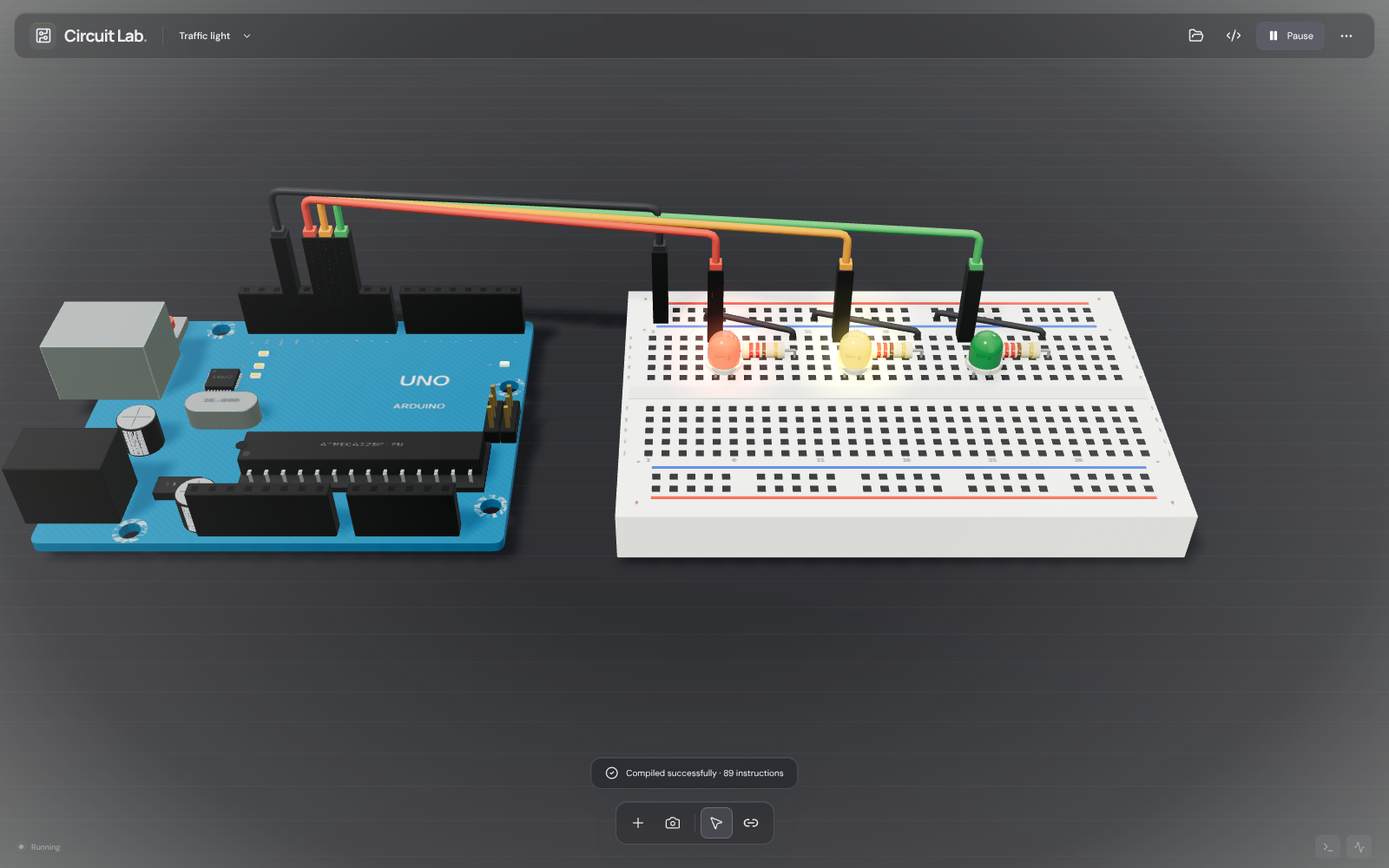
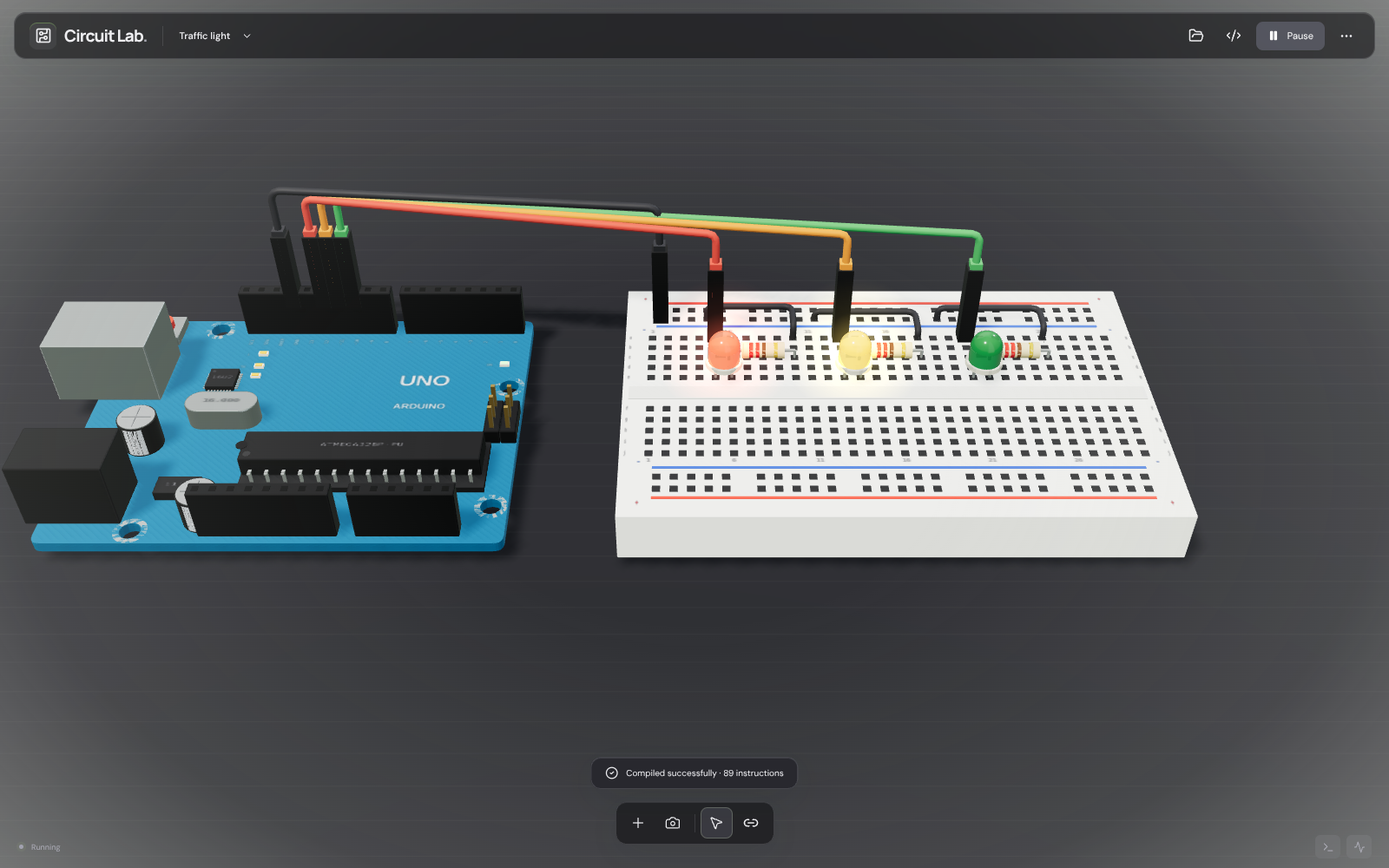
Circuit Lab: right-angle solid-core jumpers, rewritten README/HANDOFF/in-app reference, sourced dimension table, portable browser workflows
Claude-Session: https://claude.ai/code/session_01C82LR6fRpapbuBsgGKdbUN

Changed region(s): [[0.75, 0.0, 1.0, 0.093], [0.0, 0.0, 0.25, 0.093], [0.5, 0.341, 0.75, 0.403]]

diff --git a/circuit-lab/src/App.jsx b/circuit-lab/src/App.jsx
@@ -74,7 +74,7 @@ function App(){const [project,setProject]=useState(load),[selected,setSelected]=
  {connect&&<div className="modal-backdrop" onPointerDown={()=>setConnect(false)}><div className="modal connect-modal glass" onPointerDown={e=>e.stopPropagation()}><div className="modal-heading"><span className="modal-icon"><Link2 size={22}/></span><IconButton icon={X} label="Close connection dialog" onClick={()=>setConnect(false)}/></div><h2>{editingWire?'Reconnect this wire.':'Make a connection.'}</h2><p>Choose two physical terminals. Their electrical nets will be joined.</p>{['From terminal','To terminal'].map((label,i)=><label className="connect-field" key={label}>{label}<select aria-label={label} value={pair[i]} onChange={e=>setPair(pair.map((v,j)=>j===i?e.target.value:v))}><option value="">Choose a terminal…</option>{project.components.map(c=><optgroup key={c.id} label={c.name+' · '+c.id.slice(0,6)}>{terminals(c).map(t=><option key={t.id} value={ref(c,t.id)}>{t.id}</option>)}</optgroup>)}</select></label>)}<button className="primary-button" onClick={()=>connectNodes(...pair)}><Link2 size={15}/>Connect terminals</button></div></div>}
  {gallery&&<ProjectGallery projects={PROJECTS} onLoad={loadProject} onClose={()=>setGallery(false)}/>}{tools&&<ToolsModal onClose={()=>setTools(false)}/>}
  {newFile&&<div className="modal-backdrop"><div className="modal connect-modal glass"><div className="modal-heading"><h2>A new source file.</h2><IconButton icon={X} label="Close" onClick={()=>setNewFile(false)}/></div><p>Files share one compilation unit in the Lab compiler.</p><input className="filename-input" value={fileName} onChange={e=>setFileName(e.target.value)} aria-label="Source filename"/><button className="primary-button" onClick={()=>{if(!/^[a-zA-Z0-9_-]+\.(ino|cpp|h)$/.test(fileName)||Object.hasOwn(project.files,fileName)){notify('Choose a unique .ino, .cpp or .h filename.');return;}change(p=>{p.files[fileName]='// '+fileName+'\n';p.activeFile=fileName;return p;});setNewFile(false);}}>Create file</button></div></div>}
- {docs&&<div className="modal-backdrop" onPointerDown={()=>setDocs(false)}><div className="modal docs-modal glass" onPointerDown={e=>e.stopPropagation()}><div className="modal-heading"><span className="modal-icon"><BookOpen size={22}/></span><IconButton icon={X} label="Close reference" onClick={()=>setDocs(false)}/></div><div className="eyebrow">THE CIRCUIT LAB FIELD GUIDE</div><h2>Reference</h2><p>Build a circuit, write a little code, and inspect what actually flows. Every wire is part of an electrical graph. Every light is driven by calculated current.</p><div className="guide-grid"><div><span>01</span><h3>Build</h3><p>Drag parts from the library. Use <kbd>W</kbd> to connect pins, or select terminals by name with the + connector tool.</p></div><div><span>02</span><h3>Program</h3><p>Open Code, edit the sketch, then Compile or Upload & run. The first circuit is already wired for a blink.</p></div><div><span>03</span><h3>Explore</h3><p>Press a button, move a wiper, or disconnect a wire. Check the live voltages, serial output and diagnostics.</p></div></div><details open><summary>What runs here</summary><p>The Lab compiler tokenizes and parses a documented Arduino-style C++ subset into bytecode. It supports numeric and string variables, functions, if / else, while, for, return, break, arithmetic and boolean expressions. This is a dedicated virtual hardware backend, not an Xtensa emulator or a complete ESP32 C++ toolchain.</p><div className="api-grid"><code>pinMode · digitalWrite · digitalRead</code><code>analogRead · analogReadMilliVolts</code><code>ledcAttach · ledcWrite · analogWrite</code><code>Serial.begin · print · println · read</code><code>Wire.begin · beginTransmission · write</code><code>OLED / LCD · begin · print · display</code><code>attachInterrupt · timerEvery · delay</code><code>millis · micros · map · constrain</code><code>WiFi.softAP · begin · status · localIP</code><code>UDP.begin · beginPacket · print · endPacket</code><code>UDP.parsePacket · readString · remoteIP</code></div><p>Pointers, arrays, structs, classes, external Arduino libraries, FreeRTOS, full Wi-Fi stacks, Bluetooth, native ESP32 binaries and real USB uploads are unsupported. Integers use numeric VM values; this is not C++ integer-overflow or integer-division emulation. Unsupported syntax and APIs produce diagnostics. The OLED / LCD text APIs and timerEvery() are Lab extensions.</p></details><details><summary>Electrical model & timing</summary><p>A union-find connection graph feeds nodal conductance analysis. Resistors use Ohm’s law; LEDs use a piecewise linear forward model; potentiometers are two variable resistances; button contacts have deterministic bounce. Breadboard A–E and F–J strips are electrically independent.</p><p>A worker advances a deterministic 1 ms simulation clock with bounded catch-up. Rendering and editor updates are independent. PWM uses average voltage; the trace shows solved voltage, not sub-millisecond pulses. ADC is ideal, 9–12 bit, with configured full scale. Microphone is a configurable synthetic sine source, not live microphone capture. I²C ACK depends on wiring, address and supply. OLED and LCD use text frames, not SSD1306 or HD44780 register emulation. The generic LCD backpack is a 3.3 V model; real 5 V modules may need level shifting. LDR resistance follows a power law; NTC follows the Beta equation. Seven-segment brightness comes from eight separate diode currents. Batteries use configurable internal resistance, without discharge chemistry. UART is a logical serial queue. SPI is a limited logical pin model and has no slave devices. Timers and interrupts execute at solver resolution.</p><p>Supplies are resistive sources; excess current is diagnosed, not a full regulator foldback model. This tool does not model RF, EMI, parasitics, thermal damage, analog capacitors, transistor internals, USB protocol or cycle-exact peripheral timing. Floating inputs default to zero through solver leakage. Each ESP32 runs its own bytecode VM, GPIO, timers and source files on the shared deterministic clock. The virtual Wi-Fi network supports AP/station association, SSID/passphrase/channel matching and UDP datagrams. It does not implement RF, 802.11 frames, real cryptography, TCP, DNS, internet access or ESP-IDF binaries.</p></details><details><summary>Hardware provenance</summary><p><b>Espressif ESP32-DevKitC V4 / ESP32-DevKitC-32E</b>, with ESP32-WROOM-32E-N4 (4 MB flash, no PSRAM). Verified carrier outline: 48.26 × 27.94 mm. Two 19-pin headers, 2.54 mm pitch, 25.40 mm column separation. Module: 18 × 25.5 × 3.1 mm, official ±0.15 mm tolerance.</p><p>PCB thickness (1.6 mm), corner radius, metal pin profile, USB details, switch dimensions, small component placement and antenna artwork are visual approximations. The module contains a shielded crystal. The board uses a CP2102N USB-UART bridge and AMS1117 regulator. The red onboard LED is a power indicator, not GPIO2. GPIO34–39 are input-only with no pulls; GPIO6–11 are reserved for flash. GPIO0, 2, 5, 12 and 15 are strapping pins. ADC2 radio contention is outside the no-radio model.</p><div className="reference-links">{BOARD.sources.map(s=><a key={s.url} href={s.url} target="_blank" rel="noreferrer">{s.title}<ExternalLink size={13}/></a>)}</div></details><details><summary>Controls, persistence & recovery</summary><p>Drag a component to move it. Drag empty space to orbit, right-drag to pan, and scroll to zoom. Shift-click selects multiple objects. <kbd>R</kbd> opens rotation handles; the inspector provides exact X/Y/Z values and a 180° underside flip. Set a positive Y position to lift a part. <kbd>F</kbd> focuses the camera. <kbd>⌘D</kbd> duplicates, <kbd>Delete</kbd> removes, <kbd>⌘Z</kbd> undoes, and <kbd>Space</kbd> runs or pauses.</p><p>Projects autosave in this browser. Manual save, versioned JSON export and validated import are in the project menu. Stored state includes component transforms, parameters, wires, source files, layout and camera; a running VM is restarted after reload. Import errors preserve the current project. CodeMirror offers search and replace with Ctrl / Cmd + F. Use Export to move projects between devices. Up to 200 parts and 2,000 wires can be stored; the electrical solver is bounded to 700 active nets. Unused breadboard strips do not consume solver capacity. Automatic wire paths clear component bounding boxes and separate crossing heights; custom routes remain unrestricted. Crossing wires do not create a junction.</p></details><div className="guide-foot"><CircuitBoard size={17}/><span>Made for curiosity. Built on real connections.</span></div></div></div>}
+ {docs&&<div className="modal-backdrop" onPointerDown={()=>setDocs(false)}><div className="modal docs-modal glass" onPointerDown={e=>e.stopPropagation()}><div className="modal-heading"><span className="modal-icon"><BookOpen size={22}/></span><IconButton icon={X} label="Close reference" onClick={()=>setDocs(false)}/></div><div className="eyebrow">THE CIRCUIT LAB FIELD GUIDE</div><h2>Reference</h2><p>Build a circuit, write a little code, and inspect what actually flows. Every wire is part of an electrical graph. Every light is driven by calculated current.</p><div className="guide-grid"><div><span>01</span><h3>Build</h3><p>Drag parts from the library. Use <kbd>W</kbd> to connect pins, or select terminals by name with the + connector tool.</p></div><div><span>02</span><h3>Program</h3><p>Open Code, edit the sketch, then Compile or Upload & run. The first circuit is already wired for a blink.</p></div><div><span>03</span><h3>Explore</h3><p>Press a button, move a wiper, or disconnect a wire. Check the live voltages, serial output and diagnostics.</p></div></div><details open><summary>What runs here</summary><p>A real tokenizer, preprocessor, parser and bytecode compiler turn an Arduino-style C++ sketch into code for a bounded VM, one per board. Integer types keep their C widths (16-bit <code>int</code> on AVR, 32-bit on ESP32/RP2040/STM32), overflow, casts and integer division. Arrays (1D/2D), <code>switch</code>, <code>do/while</code>, <code>#define</code>, <code>static</code>, <code>volatile</code>, <code>String</code> and <code>Serial.printf</code> are supported.</p><div className="api-grid"><code>pinMode · digitalWrite · digitalRead</code><code>analogRead · analogWrite · ledcWrite · dacWrite</code><code>tone · pulseIn · shiftOut · shiftIn</code><code>attachInterrupt · millis · micros · delay</code><code>Serial · SoftwareSerial · Wire · SPI · EEPROM</code><code>Servo · LiquidCrystal_I2C · Adafruit_SSD1306</code><code>DHT · Adafruit_NeoPixel · Adafruit_GFX</code><code>WiFi · WiFiUDP (ESP32 / ESP8266)</code></div><p>Each board only offers what the real one has: <code>ledcWrite</code> on ESP32, <code>WiFi</code> on Wi-Fi boards, ADC on real ADC pins, interrupts on interrupt-capable pins. Pointers, user-defined classes/structs, dynamic memory, FreeRTOS, BLE, TCP/HTTP and libraries not listed fail with a compile diagnostic. This is not an instruction-set emulator: timing runs on a 1 ms clock (<code>pulseIn</code> uses exact edge times).</p></details><details><summary>Electrical model & timing</summary><p>Modified nodal analysis solved every simulated millisecond, with 1/5/20 substeps (Simulation precision) while anything is switching or storing energy. Diodes, LEDs and Zeners use exponential junction models with Newton–Raphson and voltage limiting. BJTs use an Ebers–Moll-style model and MOSFETs a square law with a body diode. The op-amp saturates at its rails and regulators drop out. Capacitors and inductors use backward-Euler companions, so RC/RL time constants, motor back-EMF and relay or flyback kicks really happen.</p><p>PWM truly switches when its period spans at least four substeps and is averaged otherwise. LED brightness is the time average, the way the eye sees it. The 555, 74HC595, relay contacts, HC-SR04 and DHT22 are behavioural models with analog pins. I²C and SPI transactions only succeed through actually connected, powered, grounded nets with the right address. UART between boards is delivered byte by byte when TX and RX are electrically linked and meet the logic threshold; mismatched baud rates garble data. Wi-Fi/UDP is a virtual network, not RF.</p><p>Not modelled: temperature, parasitics, EMI, battery chemistry beyond internal resistance and charge, ADC noise/nonlinearity, and component destruction (overloads are diagnosed, parts never burn). It is an educational simulator, not SPICE sign-off or a safety assessment.</p></details><details><summary>Hardware provenance</summary><p>Board outlines and header positions follow official drawings: Arduino Uno R3 (68.58 × 53.34 mm shield grid), Mega 2560, Nano (0.6" rows), Raspberry Pi Pico (21 × 51 mm, 0.7" rows), ESP32-DevKitC V4 (27.94 × 48.26 mm, 25.40 mm row spacing), plus vendor-consensus outlines for the NodeMCU Amica and the Blue Pill. Part bodies use datasheet packages (T-1¾ LED, DO-35/41, TO-92, TO-220, DIP, SRD relay, WS2812B 5050, DHT22). Silkscreen, small SMD parts and bench instruments are visual approximations. The full table with sources is in docs/HARDWARE_REFERENCE.md.</p><div className="reference-links">{BOARD.sources.map(s=><a key={s.url} href={s.url} target="_blank" rel="noreferrer">{s.title}<ExternalLink size={13}/></a>)}</div></details><details><summary>Controls, persistence & recovery</summary><p>Drag a component to move it. Drag empty space to orbit, right-drag to pan, and scroll to zoom. Shift-click selects multiple objects. <kbd>R</kbd> opens rotation handles; the inspector provides exact X/Y/Z values and a 180° underside flip. Set a positive Y position to lift a part. <kbd>F</kbd> focuses the camera. <kbd>⌘D</kbd> duplicates, <kbd>Delete</kbd> removes, <kbd>⌘Z</kbd> undoes, and <kbd>Space</kbd> runs or pauses.</p><p>Projects autosave in this browser. Open or drop a <code>.circuitlab.json</code> project to load it, or an <code>.ino</code>/<code>.cpp</code>/<code>.h</code> file to add it to the sketch. Manual save, JSON/BOM CSV/SPICE netlist export and validated import are in the project menu. Parts dropped onto a breadboard seat into its holes and connect through its strips. Stored state includes component transforms, parameters, wires, source files, layout and camera; a running VM is restarted after reload. Import errors preserve the current project. CodeMirror offers search and replace with Ctrl / Cmd + F. Use Export to move projects between devices. Up to 200 parts and 2,000 wires can be stored; the electrical solver is bounded to 700 active nets. Unused breadboard strips do not consume solver capacity. Automatic wire paths clear component bounding boxes and separate crossing heights; custom routes remain unrestricted. Crossing wires do not create a junction.</p></details><div className="guide-foot"><CircuitBoard size={17}/><span>Made for curiosity. Built on real connections.</span></div></div></div>}
  </div>;
 }
 export default App;

diff --git a/circuit-lab/src/scene.js b/circuit-lab/src/scene.js
@@ -95,7 +95,7 @@ export class LabScene {
  updateWires(){
   if(!this.project)return;const boxes=new Map();for(const [id,g]of this.objects){const b=g.userData.localBounds.clone().applyMatrix4(g.matrixWorld);boxes.set(id,{min:b.min.toArray(),max:b.max.toArray()});}const previous=[],wanted=new Set(),curves=new Map();
   for(const w of this.project.wires){if(w.kind==='contact')continue;const a=this.endpoint(w.a),b=this.endpoint(w.b);if(!a||!b)continue;wanted.add(w.id);let curve,signature;const na=this.terminalNormal(w.a),nb=this.terminalNormal(w.b),oa=this.housingOffset(w.a),ob=this.housingOffset(w.b);
-   const flat=this.isHole(w.a)&&this.isHole(w.b);if(flat&&!(w.route==='manual'||w.points?.length)){const up=1.4,pa=a.clone().add(na.clone().multiplyScalar(up)),pb=b.clone().add(nb.clone().multiplyScalar(up));curve=this.roundedRoute([a.toArray(),pa.toArray(),pb.toArray(),b.toArray()].map((v,i)=>i===0||i===3?[v[0],v[1]-1.2,v[2]]:v));signature=JSON.stringify(['flat',a.toArray(),b.toArray(),w.color]);}
+   const flat=this.isHole(w.a)&&this.isHole(w.b);if(flat&&!(w.route==='manual'||w.points?.length)){/* Solid-core jumpers lie flat and are bent at right angles like a hand-built board; a per-wire lift keeps crossing jumpers from sharing a surface */let hash=0;for(const ch of w.id)hash=(hash*31+ch.charCodeAt(0))>>>0;const up=1.2+(hash%5)*.35,pa=a.clone().add(na.clone().multiplyScalar(up)),pb=b.clone().add(nb.clone().multiplyScalar(up)),pts=[a.toArray(),pa.toArray()];if(Math.abs(pa.x-pb.x)>.6&&Math.abs(pa.z-pb.z)>.6)pts.push([pa.x,(pa.y+pb.y)/2,pb.z]);pts.push(pb.toArray(),b.toArray());curve=this.roundedRoute(pts.map((v,i)=>i===0||i===pts.length-1?[v[0],v[1]-1.2,v[2]]:v));signature=JSON.stringify(['flat',a.toArray(),b.toArray(),w.color]);}
    else if(w.route==='manual'||w.points?.length||w.bendX||w.bendZ){curve=this.manualCurve(w);signature=JSON.stringify([a.toArray(),b.toArray(),w,na.toArray(),nb.toArray()]);}
    else{const route=autoRoute({a:a.toArray(),b:b.toArray(),normalA:na.toArray(),normalB:nb.toArray(),escapeA:oa+8,escapeB:ob+8,ownerA:boxes.get(w.a.split(':')[0]),ownerB:boxes.get(w.b.split(':')[0]),obstacles:[...boxes.values()],previous});previous.push(route);curve=this.roundedRoute(route.points);signature=JSON.stringify([route.points,w.color]);}curves.set(w.id,curve);
    let mesh=this.wires.get(w.id);if(mesh?.userData.signature!==signature){if(mesh){this.scene.remove(mesh);this.disposeGroup(mesh);mesh.material.dispose();}mesh=new THREE.Mesh(new THREE.TubeGeometry(curve,Math.max(40,Math.min(160,Math.ceil(curve.getLength()*1.2))),flat?.52:.62,8,false),new THREE.MeshStandardMaterial({color:w.color||'#b98548',roughness:.42,metalness:0}));mesh.userData.wire=w.id;mesh.userData.signature=signature;mesh.castShadow=true;

diff --git a/circuit-lab/src/styles.css b/circuit-lab/src/styles.css
@@ -65,3 +65,5 @@
 .app .modal-icon{background:var(--control);color:var(--ink);border:1px solid var(--hairline)}
 /* Keep the glass see-through but stop bright objects behind it (white breadboards, lit LEDs) from washing out text. */
 .app.theme-dark .glass,.app.theme-dark .topbar{backdrop-filter:blur(22px) saturate(140%) brightness(.6);-webkit-backdrop-filter:blur(22px) saturate(140%) brightness(.6)}
+/* The reference is long-form reading: the scene must not compete with its text, so it keeps a denser tint than other glass. */
+.app.theme-dark .docs-modal{background:rgba(24,24,28,.88)}

diff --git a/circuit-lab/README.md b/circuit-lab/README.md
@@ -1,105 +1,79 @@
 # Circuit Lab
 
-A browser-based 3D electronics workspace for Espressif **ESP32-DevKitC V4 / ESP32-WROOM-32E-N4**. All fifteen component types are independent 3D assemblies. Drag and rotate parts, edit all three position/rotation axes, create arbitrary terminal connections, route wires with up to eight movable bends, and inspect electrical results. Incorrect wiring is allowed and diagnosed.
+A browser-based 3D electronics bench. Place real-proportioned boards and parts, seat them on breadboards, wire them, write Arduino-style firmware, and watch a transient circuit solver drive every LED, motor, display and instrument. Everything (compiler, VMs, solver, network, renderer) runs locally in the browser; there is no server, account or external simulator.
 
-## Run locally
+## Run
 
 ```sh
 npm ci
-npm run dev
+npm run dev                                         # http://127.0.0.1:5173
+npm test                                            # 114 engine / compiler / physics / project tests
+npm run build                                       # dist/
+npx vite build --config vite.standalone.config.js   # standalone/index.html, single file, works offline
 ```
 
-Open the URL printed by Vite. No compilation service, secret, account, or external simulator is required. The source compiler, independent firmware VMs, electrical solver and project storage run in the browser. Google Fonts is optional; local system fonts are the fallback.
+`Circuit-Lab.html` in this folder is the latest single-file build. Open it directly in Chrome, Edge, Firefox or Safari.
 
-```sh
-npm test        # electrical, compiler, VM and persistence tests
-npm run build  # production bundle in dist/
-```
+## What is in the box
 
-Browser workflow verification uses the installed Chromium through Playwright:
+**Boards (7):** ESP32 DevKitC V4, Arduino Uno R3, Arduino Nano, Arduino Mega 2560 Rev3, Raspberry Pi Pico, NodeMCU ESP8266 (Amica V2), STM32 Blue Pill. Each board has its own profile (`src/boards.js`): logic level, VIL/VIH, pin output resistance, GPIO capabilities (ADC, PWM, interrupts, I2C/SPI/UART pins, input-only and strapping pins), integer width (16-bit `int` on AVR), onboard LEDs, and which APIs exist (for example, `ledcWrite` is ESP32-only and `WiFi` needs a Wi-Fi board). Calling an API the selected board doesn't have is a compile error, the same as it would be in the real toolchain.
 
-```sh
-node tests/browser-workflows.mjs
-```
+**Parts (52):** resistor, ceramic/electrolytic capacitor, inductor, diodes (1N4148, 1N4007, 1N5819 Schottky, 1N4733A Zener, …), NPN/PNP (2N2222, BC547, 2N3906, TIP120), N-MOSFET (2N7000, IRF520, IRLZ44N), 78xx/LM1117 regulators, LM358 op-amp, NE555, 74HC595, relay, DC motor, SG90 servo, active/passive buzzer, incandescent lamp, WS2812B stick, 10-segment bar, 7-segment, SSD1306 OLED, 1602 I2C LCD, push button, slide switch, tilt switch, potentiometer, KY-023 joystick, KY-040 encoder, 4×4 membrane keypad, microphone, LDR, NTC, DHT22, HC-SR04, HC-SR501 PIR, capacitive soil sensor, MQ-2, MPU-6050, DS3231, 9 V battery, AA pack, 18650 cell, bench PSU (CV/CC), function generator, multimeter, 2-channel oscilloscope, 8-channel logic analyzer, and mini/half/full breadboards.
 
-The script expects a running Vite server at `http://127.0.0.1:5173`, Chromium at `/usr/bin/chromium`, and writes actual screenshots to `/workspace/artifacts/circuit-lab`. `tests/inspect-browser.mjs` is a shorter visual smoke check. Browser QA was performed with WebGL2 software rendering. Native hardware WebGPU is selected when available but is not certified by that run.
+**Projects (39):** blink, traffic light, chaser, dice/7-segment, shift-register bar graph, servo knob, ultrasonic LCD ruler, weather station, melody, keypad lock, joystick RGB, night light, thermometer, Mega chaser, Pico breathing and NeoPixel rainbow, Blue Pill interrupt, ESP8266↔ESP32 Wi-Fi remote, wired UART link between two boards, IMU tilt, RTC OLED clock, PIR alarm, plant watering (relay + pump), MOSFET motor PWM with flyback diode, 555 flasher, RC and RL transients on the scope, op-amp amplifier, 7805 regulator, Zener reference, transistor lamp switch, multimeter/ohmmeter and more. `tests/projects.test.js` runs every one of them and checks the physical result (LED current, timing, scope ratio, LCD text, etc.).
+
+**Tools:** library with live 3D thumbnails and search; schema-driven inspector (part parameters, live readouts, board information and datasheet links); oscilloscope and logic-analyzer drawer; engineering calculators (LED resistor, Ohm's law, divider, RC/filter, 555 astable, color code); BOM CSV and SPICE netlist export; JSON project import/export (drag a `.circuitlab.json`/`.json` file in or use the open button); camera snapshot; undo/redo; autosave.
+
+## Simulation model (and its honest limits)
+
+`src/engine.js` builds a Modified Nodal Analysis matrix from the wiring graph and solves it with dense LU every 1 ms of simulated time, in 1/5/20 substeps (Simulation precision setting) whenever something is switching or storing energy.
+
+- **Nonlinear devices** use Newton–Raphson with junction-voltage limiting: diode/LED Shockley models (Zener breakdown with knee resistance), Ebers–Moll-style BJTs (cut-off/active/saturation reported), square-law MOSFETs, piecewise op-amp with rail limits, regulators with dropout.
+- **Energy storage** uses backward-Euler companion models, so RC/RL time constants, motor back-EMF, flyback spikes and relay coil kick are simulated, not faked. The RC project measures 63 % at τ within 2 %.
+- **PWM** is real switching when the period covers at least four substeps. Otherwise it falls back to the average voltage. LED brightness is averaged over substeps the way an eye sees it.
+- **Behavioural blocks:** the 555 (comparators plus flip-flop at ⅓/⅔ VCC), 74HC595, relay contacts, HC-SR04 echo timing and the DHT22 protocol are logic models with analog pins, not transistor-level netlists.
+- **Buses:** I2C and SPI are logical transactions that only succeed when the actual nets connect, power and ground are present and the address matches. UART between boards is delivered byte by byte when TX and RX are electrically linked (including through resistive dividers), share a ground and meet VIH. A baud mismatch garbles the data. Wi-Fi/UDP is a virtual network (association delay, ports, loss), not RF or 802.11 frames.
+- **ADC** is ideal at the board's resolution and reference. There is no ESP32 nonlinearity, noise or calibration.
+- **Not modelled:** temperature, parasitic capacitance and inductance, EMI, battery chemistry beyond internal resistance and state of charge, component destruction (overloads are *diagnosed*, parts don't burn), cycle-accurate CPU timing (the VM runs at 1 ms clock resolution; `delayMicroseconds` and `micros` are quantized to it, except `pulseIn`, which uses exact edge times).
+
+This is an educational simulator. It is not SPICE sign-off and not a safety assessment for real hardware.
+
+## Firmware
+
+`src/compiler.js` is a real tokenizer → preprocessor → recursive-descent parser → bytecode compiler, and a bounded stack VM per board. No `eval`.
+
+Supported: C integer types with correct width, overflow, casts and integer division; `float`/`double`; `bool`; `char`; `String` with its methods; 1D/2D arrays and initializers; `const`, `static` locals, `volatile`, `#define`/`#include`; functions; `if/else`, `for`, `while`, `do/while`, `switch`, `break/continue`; ternary and bitwise operators; `F("…")`; `Serial.printf`.
+
+Arduino core: `pinMode/digitalWrite/digitalRead`, `analogRead/analogWrite` (plus resolution/range/frequency variants), `ledc*`, `dacWrite`, `tone/noTone`, `pulseIn`, `shiftOut/shiftIn`, `attachInterrupt`, `millis/micros/delay`, `map/constrain/random`, `bit*`/`lowByte`/`highByte`, math functions, `EEPROM`, `Wire`, `SPI`, `Serial` (requires `Serial.begin`, as on real hardware).
+
+Libraries (header + class API): `Servo`/`ESP32Servo`, `LiquidCrystal_I2C`, `Adafruit_SSD1306`/`Adafruit_GFX` (text, pixels, lines, rectangles, circles), `DHT`, `Adafruit_NeoPixel` (including `ColorHSV`/`gamma32`), `SoftwareSerial`, `WiFi`/`ESP8266WiFi`, `WiFiUDP`.
+
+Not supported: pointers, structs/classes you define, templates, dynamic memory, FreeRTOS, BLE, TCP/HTTP, real board binaries, and any library not listed above. These produce a compile diagnostic, never silent misbehaviour.
 
 ## Architecture
 
-- `src/data.js`: authoritative board identity, source references, physical terminal map, component definitions, versioned project validation/migration and example source files. Millimeters are canonical; `MM` is the renderer conversion.
-- `src/scene.js`: procedural Three.js component assemblies, materials, pins, raycasting, orbit and transform controls, and live wire routing. WebGPU initialization falls back to WebGL2. Idle frames skip drawing. Electrical connectivity never comes from visual proximity.
-- `src/world.js` and `src/network.js`: independent firmware per board, shared clock/circuit, virtual AP/station association and UDP queues.
-- `src/routing.js`: bounding-box clearance, crossing-height separation and deterministic routing.
-- `src/engine.js`: union-find electrical nets and nodal conductance analysis with piecewise-linear LED iteration; structured GPIO, ADC, averaged PWM, interrupt/timer and logical peripheral models.
-- `src/compiler.js`: tokenizer → recursive-descent parser → bytecode compiler → bounded stack VM. Source is not executed with `eval` or interpreted by regular-expression matching.
-- `src/sim.worker.js`: independent 1 ms simulation clock, bounded catch-up, commands and 20 Hz state snapshots. Slow machines run simulated time more slowly instead of increasing the solver timestep.
-- `src/Editor.jsx`: CodeMirror C++ highlighting, line numbers, indentation, search/replace, history and source diagnostics.
-- `src/App.jsx`: unified project state, contextual inspector, floating/split editor, diagnostics, manual save, autosave, JSON import/export, undo/redo and keyboard commands.
+| File | Role |
+| --- | --- |
+| `src/boards.js` | Board profiles and physical header geometry |
+| `src/parts.js` | Part catalog: pins on the 2.54 mm grid, parameters, inspector schema, device models |
+| `src/elements.js` | Per-part MNA stamps (linear, nonlinear, companion, behavioural) |
+| `src/engine.js` | `Circuit` (solver, substeps, diagnostics, probes) and `Simulator` (per-board runtime API) |
+| `src/compiler.js` | Language front end, bytecode, VM |
+| `src/world.js`, `src/network.js` | Multi-board world, shared clock, UART links, virtual Wi-Fi |
+| `src/devices.js` | I2C register devices (OLED, LCD, MPU-6050, DS3231) and the graphics display list |
+| `src/geo.js`, `src/models.js`, `src/scene.js` | 3D primitives, part/board models, scene, wires, dragging, live visual state |
+| `src/snap.js` | Seating parts in breadboard holes, creating contact connections |
+| `src/projects.js` | The 39 example projects |
+| `src/App.jsx`, `src/Panels.jsx`, `src/Editor.jsx` | UI |
+| `src/sim.worker.js` | 1 ms simulation clock in a Web Worker |
 
-## Supported firmware environment
+## Tests
 
-This is an **explicit Arduino-style language subset targeting the Lab bytecode VM**. It is not an ESP32 instruction-set emulator and does not run Xtensa binaries or arbitrary Arduino libraries. Upload means transferring compiled bytecode to the virtual device, not flashing physical hardware.
+- `npm test`: 114 Node tests (`engine`, `expanded`, `physics`, `projects`).
+- Browser (needs `npm run dev`; Chromium path from `$CHROMIUM` or the Playwright default): `node tests/app-tour.mjs` captures the feature tour into `screenshots/`. `tests/showcase.mjs out.png type1,type2,… [cols] [gap] [dir] [zoom]` renders any parts through the app's file import. `tests/browser-workflows.mjs`, `browser-tail.mjs`, `additional-workflows.mjs`, `drag-check.mjs`, `inspect-browser.mjs` and `visual-check.mjs` are end-to-end UI workflows.
 
-Supported syntax: numeric/string values, variables, typed function declarations and parameters, function calls, `if`/`else`, `while`, `for`, `return`, `break`, arithmetic/bitwise/logical/conditional expressions, assignment and increments. Integer values use JavaScript numeric semantics, not exact C/C++ overflow, casts or integer division. There are no arrays, pointers, classes, structs, templates, macros or external libraries. Unsupported syntax and APIs fail with diagnostics.
+Browser QA runs on software WebGL2 (SwiftShader). WebGPU is used when available but was not verified on real GPU hardware here.
 
-Supported APIs include:
+## 3D model provenance
 
-- `pinMode`, `digitalWrite`, `digitalRead`
-- `analogRead`, `analogReadMilliVolts`, `analogReadResolution`, `analogSetAttenuation`
-- `ledcAttach`, `ledcWrite`, `ledcSetup`, `ledcAttachPin`, `analogWrite`, `tone`, `noTone`
-- `delay`, `delayMicroseconds`, `millis`, `micros`
-- `Serial.begin`, `Serial.print`, `Serial.println`, `Serial.available`, `Serial.read`
-- `Wire.begin`, `Wire.beginTransmission`, `Wire.write`, `Wire.endTransmission`
-- Lab display extensions: `LCD.begin`, `LCD.clear`, `LCD.setCursor`, `LCD.print`, `LCD.println`, `LCD.display`; `OLED.begin`, `OLED.clear`, `OLED.setCursor`, `OLED.print`, `OLED.println`, `OLED.display`
-- `attachInterrupt`, `detachInterrupt`, `digitalPinToInterrupt`
-- Lab timer extension: `timerEvery(milliseconds, callback)`, `timerCancel(id)`
-- `SPI.begin`, `SPI.transfer`: logical edge model, sampling the actually connected MISO net
-- `min`, `max`, `abs`, `sin`, `cos`, `sqrt`, `pow`, `map`, `constrain`, seeded `random`
-
-`Wire.requestFrom` explicitly warns that register reads are unsupported by the text OLED. I2C ACK requires matching address, power, common ground, separate connected SDA/SCL nets and released bus lines. Raw SSD1306 commands are logged but are not a complete display-controller implementation. OLED text frames use the documented Lab extension. UART is a logical RX queue and output log; no UART line timing is claimed. SPI has no external slave model and no sub-millisecond timing fidelity. Interrupts and timers execute at 1 ms resolution. `delayMicroseconds` is accepted but quantized by that resolution. Full wireless protocol stacks, FreeRTOS, DMA, USB protocol, flash filesystems and cycle-exact ESP32 peripheral behavior are unsupported.
-
-GPIO34/35/36/39 are input-only without internal pulls. GPIO6–11 are rejected as flash-reserved. EN holds the CPU in reset; BOOT pulls GPIO0 low; GPIO0/2 and GPIO12 strapping affect reset boot state. The onboard red LED is power indication, not a GPIO2 user LED. The initial blink uses a separate wired LED.
-
-Every ESP32 has independent source files, bytecode execution, GPIO, timers, UART, I2C and ADC state. Select the target in the editor; Run compiles all board programs before starting them on a shared clock. Newly added boards start with an empty sketch until programmed. Wired GPIO interconnection is solved electrically.
-
-The **Two boards · Wi-Fi** example creates a virtual AP and station. Supported network APIs are `WiFi.softAP`, `WiFi.begin`, `WiFi.status`, `WiFi.localIP`, `WiFi.softAPIP`, `WiFi.disconnect`, `WiFi.softAPdisconnect`; `UDP.begin`, `UDP.beginPacket`, `UDP.print`, `UDP.write`, `UDP.endPacket`, `UDP.parsePacket`, `UDP.readString`, `UDP.remoteIP`, `UDP.remotePort`, `UDP.stop`. `WL_CONNECTED` equals 3. The built-in `UDP` object is a Lab extension, not an instantiated WiFiUDP C++ library.
-
-Association requires an active AP and matching SSID, password and optional channel. It takes 100 simulated ms; datagrams take 2 ms. AP address is 192.168.4.1; station addresses are assigned deterministically. Broadcast is 192.168.4.255. Receive ports and network membership must match. Missing peers, wrong credentials, stopped boards, full queues and packet drops are observable. Payloads are bounded to 256 characters, receive queues to 64 messages, pending delivery to 256 packets. This is a **logical network**, not RF propagation, 802.11 frames, real WPA encryption, TCP, DNS, HTTP/internet access, realistic congestion or a full ESP-IDF stack. No packets leave the browser.
-
-## Electrical model and limits
-
-The solver computes voltages and currents from the connection graph. Resistors obey Ohm's law. LEDs use configurable forward voltage plus 15 Ω dynamic resistance. Potentiometers stamp two resistances. Buttons close contacts with deterministic configurable bounce. Breadboard columns connect A–E and F–J independently; the center gap and adjacent columns remain isolated.
-
-Additional models: LDR uses R10 × (10/lux)^gamma; NTC uses the Beta equation relative to 25 °C; SPDT stamps a 0.1 Ω selected contact; seven-segment common-cathode displays stamp eight independent LEDs; batteries use a 0–24 V source and configurable internal resistance/current rating. LCD is a generic 3.3 V 16×2 I2C text module, not a full HD44780 or PCF8574 emulator. Generic models and component dimensions are approximations. Real 5 V LCD backpacks may need level shifting.
-
-The board is virtually USB powered. Supplies and outputs use finite source resistances. Modeled source/output resistances and a 500 mA supply alert threshold are simulation assumptions, not official guaranteed device specifications. Supply overloads and shorts produce diagnostics; regulator foldback, thermal damage and permanent component failure are not modeled. High impedance uses numerical leakage to stabilize floating nets. ADC conversion is ideal 9–12 bit with configurable full scale; real ESP32 calibration, noise and radio contention are not modeled. PWM is an averaged electrical source, not a transient switching circuit. The scope shows solved voltage at 10 ms samples. The microphone is a user-configurable synthetic sine-wave voltage source, not device microphone capture. Passive buzzer audio requires a connected PWM source; active buzzers respond to supply. Audio is opt-in through a browser gesture.
-
-No capacitive/inductive transients, parasitic components, EMI/RF, transistor internals or analog power electronics are claimed. Unsupported physics must not be mistaken for SPICE or a safety assessment of real hardware.
-
-## Geometry provenance
-
-See [docs/HARDWARE_REFERENCE.md](docs/HARDWARE_REFERENCE.md). Board outline, header counts/pitch/spacing, exact header order and module envelope are sourced from official Espressif references. Fine geometry (carrier thickness/radius, switch and USB details, inferred SMD placement, pin profile and antenna artwork) is explicitly tagged approximate. No undocumented manufacturing tolerances are presented as specifications.
-
-## Persistence and controls
-
-A version 2 JSON project stores components, transformations, electrical parameters, wire endpoints and bends, all source files, selected board revision, independent firmware for each board, appearance, editor mode and camera. Version 1 imports migrate explicitly. Local autosave is debounced; storage failures prompt export. Invalid imports leave the working project intact. A running CPU state is not restored after reload; saved source and circuit restart from reset.
-
-- Appearance in Workspace options controls light/dark themes and glass opacity across panels and buttons.
-- Click a pin to inspect its label, functions and solved voltage; Trace net highlights actual electrical connections.
-- Camera controls open a compact orbit/zoom/focus palette; touch gestures are supported by OrbitControls.
-- Automatic wire routing clears conservative component bounding boxes and separates planar crossings by height. It is a routing aid, not mechanical cable simulation; manually edited paths can intersect objects and are intentionally allowed.
-- Drag: place on the work surface, preserving the grab offset.
-- Three-axis move handle: translate including lift/lower; Y is clamped at the work surface.
-- Rotate handle: free rotation; Shift enables 15° snapping.
-- Inspector: exact position/rotation, 90° rotation and 180° flip.
-- Shift-click: multi-select; duplicate/delete/align in the inspector.
-- W: wire tool; click any two actual terminals, or use the named-terminal dialog. Invalid electrical combinations are allowed.
-- Selected wire: edit color, reconnect endpoints, add bends. Drag a bend along the work plane; Shift-drag lifts/lowers it.
-- Empty-space drag: camera orbit; right-drag: pan; scroll: zoom; F: focus.
-- Cmd/Ctrl+Z and Shift+Cmd/Ctrl+Z: object/connection undo/redo.
-- Cmd/Ctrl+D: duplicate; Delete: remove; Space: run/pause; Cmd/Ctrl+S: save.
-- CodeMirror: normal editing, copy/paste, undo and Cmd/Ctrl+F search/replace.
-
-## Security and resource bounds
-
-The VM does not use JavaScript evaluation or network calls. Execution, call stack, VM stack, pending interrupts, solver iterations and worker catch-up are bounded. Imports validate version, transforms, terminal existence and route data, with limits of 200 components and 2,000 wires, with a 700-active-net solver budget. Unsupported firmware and solver failures stop execution with visible diagnostics.
+See [docs/HARDWARE_REFERENCE.md](docs/HARDWARE_REFERENCE.md). Board outlines, header positions and connector placement follow official drawings (Arduino/Espressif/Raspberry Pi/ST). Part bodies follow datasheet package dimensions. Small details such as SMD passives, silkscreen and textures are visual approximations and are labelled as such there.

diff --git a/circuit-lab/HANDOFF.md b/circuit-lab/HANDOFF.md
@@ -1,31 +1,31 @@
 # Circuit Lab handoff
 
-Latest user priority: deliver the current application immediately as one standalone HTML, plus full source and a short continuation prompt. Stop expanding scope until that delivery. The user prefers charcoal/black/grayscale UI, high glass transparency everywhere, minimal visible controls, realistic 3D components, arbitrary wiring, precise manipulation and independent multiple ESP32 boards.
+User priorities (unchanged): charcoal black/gray UI, highly transparent glass, minimal visible controls. 3D models must use real, sourced proportions, colors and markings. Electronics and interactions must behave like the real thing. Send real in-app screenshots while working, with no separate display or gallery site. Be honest about limits.
 
-## Current implementation
+## State
 
-- React + Three.js procedural 3D, native WebGPU attempted with WebGL2 fallback; physically separate meshes merged for efficiency. Official DevKitC V4 / WROOM-32E-N4 reference dimensions and explicitly approximate fine geometry.
-- 15 component types: ESP32, LED, resistor, button, pot, microphone, buzzer, OLED, breadboard, LCD, LDR, NTC, SPDT, seven-segment, battery.
-- Real explicit net graph / nodal DC solver, GPIO/ADC/PWM models, per-component electrical behavior and diagnostics. Auto wire paths clear bounding boxes and separate crossing heights; manual bends remain allowed.
-- Lexer/parser/compiler -> bounded bytecode VM for a documented Arduino-like subset. CodeMirror editing. Not arbitrary C++ or Xtensa binaries.
-- Separate source/VM/GPIO per ESP32, shared deterministic 1 ms clock. Virtual AP/station association with SSID/password/channel matching, UDP delivery, independent programs and network log. Not RF, 802.11, real cryptography, TCP, DNS, internet, or full ESP-IDF.
-- Floating/split editor, global opacity, charcoal default theme, pin-click inspector and actual net tracing, camera controls, undo/redo, JSON export/import and local autosave.
+- 7 boards with per-board profiles, 52 parts, 39 projects (all executed and physically checked by `tests/projects.test.js`).
+- Transient MNA engine with nonlinear semiconductors, companion models for C/L, switching PWM, behavioural ICs, bus/UART/Wi-Fi models. See README "Simulation model" for the exact limits.
+- Typed compiler/VM with library classes. API availability depends on the board.
+- Breadboard seating (`src/snap.js`) creates explicit `kind:'contact'` connections. Hole-to-hole wires are flat solid-core jumpers bent at right angles, with a small per-wire lift so crossings don't share a surface. Other wires are Dupont jumpers with housings.
+- UI: library with live thumbnails, schema inspector, project gallery, scope/logic drawer, calculators, BOM/SPICE/JSON export, file import (projects and `.ino` sources), and an in-app reference that matches the README.
+- `npm test`: 114 passing. Browser: `tests/app-tour.mjs` (12 shots, zero page errors). The legacy workflows were ported to the project gallery and portable paths.
 
-## Build and verification
+## Verify
 
-`npm ci`, `npm run dev`, `npm test`, `npm run build`.
-Standalone: `npx vite build --config vite.standalone.config.js`. Worker is imported with `?worker&inline` so no external worker asset is required. Dynamic imports are bundled into the standalone HTML. Browser font requests are optional; system fonts are the fallback.
-45 engine/compiler/network/routing/persistence tests passed. Browser workflows 1–9 passed in an initial phase after fixing stale transform axes. `tests/browser-tail.mjs` then passed button, ADC, OLED, incorrect wiring, compiler diagnostics, persistence and mobile checks with zero browser errors. `tests/additional-workflows.mjs` passed theme/opacity, pin picking, LCD, independent board programs, UDP, wrong-password failure, export/reload and added models, zero browser errors. Chromium software WebGL2 was tested; real hardware WebGPU was not verified.
+```sh
+npm ci && npm test
+npm run dev &
+node tests/app-tour.mjs            # screenshots/01…12
+node tests/showcase.mjs screenshots/x.png uno,nano,pico 3 90
+npx vite build --config vite.standalone.config.js && cp standalone/index.html Circuit-Lab.html
+```
 
-## Known limits and next work
+## Next work (most valuable first)
 
-- Preserve honest scope: dense 700-active-net budget, up to 200 parts / 2,000 wires, average-voltage PWM, ideal ADC, synthetic microphone, logical UART/SPI/display/network APIs. It is not SPICE or a complete ESP32/Wi-Fi emulator.
-- Generic component dimensions and small board geometry are approximated. Improve models using verifiable references rather than claiming photoreal manufacturing fidelity.
-- The present OLED.setCursor stores a cursor but text writing currently appends; implement correct cursor-aware text behavior and add tests, or explicitly diagnose unsupported cursor positioning.
-- CodeMirror propagates programmatic document replacement to its onChange callback. Suppress that callback during external synchronization so switching board source does not mark a valid build dirty.
-- The resistor body bands currently depict the default 220 ohms and should update with the configured resistance.
-- More detailed/performance-tested large projects, import validation, I2C address collision diagnostics, mechanical wire collision review, real peripherals and broader firmware execution remain future work.
-- Screenshots 23–33 show the latest neutral charcoal theme. Screenshots 1–22 include earlier light/green interface states and should be recaptured before presenting a final gallery as all-current.
-- Sites publication was prepared earlier but no production version was published. The immediate user request superseded publishing with urgent file delivery. Do not claim that a live site exists.
+1. Model pass still worth doing: relay *module* variant (blue PCB, transistor, flyback diode, screw terminal), 18650 holder vs LiPo pouch choice, MQ-2 mesh texture, servo horn variants.
+2. Large-circuit performance: the dense LU is O(n³). Switch to sparse LU or a KLU-style ordering before exceeding about 300 active nets.
+3. Firmware: structs, user classes, pointers to arrays.
+4. Real-GPU WebGPU verification (QA so far is SwiftShader WebGL2).
 
-The standalone HTML is a deliverable snapshot; continue development from these source files, not by editing the generated minified HTML.
+Continue development from the sources. `Circuit-Lab.html` is a generated, minified snapshot.
